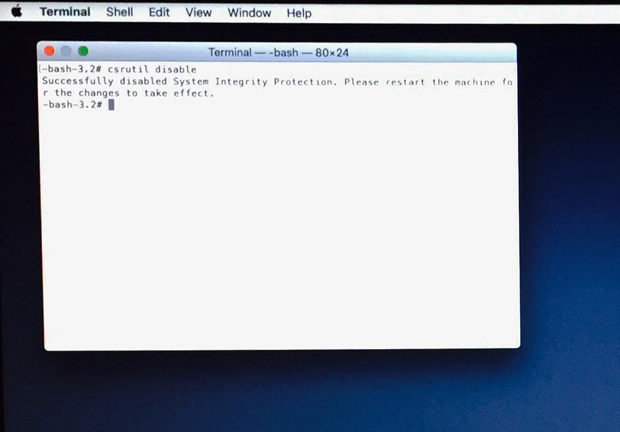
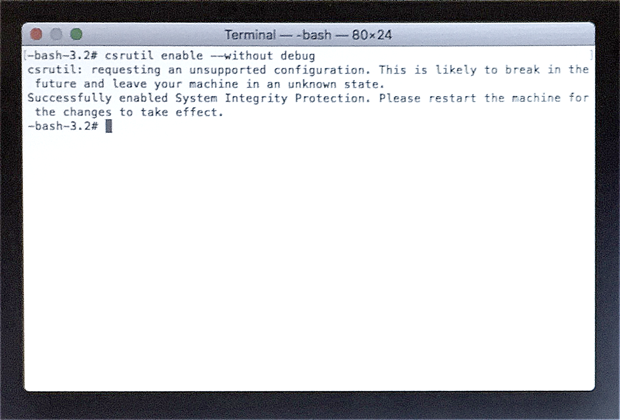
Update el capitan instructions, and point to v2.3.6

diff --git a/changelog2.html b/changelog2.html
@@ -50,6 +50,43 @@
         <div class="release">
     				<div class="titlebox">
     					<h4>
+    						<a href="http://downloads.binaryage.com/TotalSpaces2-2.3.6.dmg">2.3.6</a>
+    					</h4>
+    					<h5>
+    						22 September 2015
+    					</h5>
+    			  </div>
+    				<div class="infobox">
+              <ul class="changes">
+                <li>
+     							<span class="sticker new"><b>NEW</b></span> <span class="info">El Capitan compatibility (only with SIP setting modified; <a href="http://totalspaces.binaryage.com/elcapitan">see here for more details</a>)</span>
+                </li>
+                <li>
+     							<span class="sticker new"><b>NEW</b></span> <span class="info">Allow numeric keypad keys to be set as hotkeys without modifier keys.</span>
+                </li>
+                <li>
+     							<span class="sticker new"><b>NEW</b></span> <span class="info">Permit ESC and DELETE keys with modifiers as hotkeys.</span>
+                </li>
+                <li>
+     							<span class="sticker fixed"><b>FIXED</b></span> <span class="info">Do not alert about hotkey being in use if system hotkey is defined but disabled.</span>
+                </li>
+                <li>
+     							<span class="sticker new"><b>NEW</b></span> <span class="info">Command line preference to turn on old style notification graphic. defaults write com.binaryage.TotalSpaces2 oldStyleNotification -bool YES</span>
+                </li>
+                <li>
+     							<span class="sticker fixed"><b>FIXED</b></span> <span class="info">Improve trackpad handling, should fix rare method cache corrupt crashes.</span>
+                </li>
+                <li>
+     							<span class="sticker fixed"><b>FIXED</b></span> <span class="info">Rare bug causing space switch commands from the keyboard to be ignored.</span>
+                </li>
+        			</ul>
+    		    </div>
+    	  </div>
+        
+        
+        <div class="release">
+    				<div class="titlebox">
+    					<h4>
     						<a href="http://downloads.binaryage.com/TotalSpaces2-2.2.20.dmg">2.2.20</a>
     					</h4>
     					<h5>

diff --git a/elcapitan.md b/elcapitan.md
@@ -6,13 +6,13 @@ subtitle: How to run TotalSpaces2 on El Capitan
 
 TotalSpaces2 [versions 2.3.5 and above](/changes-beta) have support for OSX 10.11 El Capitan, but cannot run on a normally configured machine due to system integrity protection, a new security feature in El Capitan.
 
-This article will tell you how to configure your machine without the new setting, so that you can run TotalSpaces2.
+This article will tell you how to configure your machine by modifying the new setting, so that you can run TotalSpaces2.
 
-Before you do this, it is important to get informed about [what System Integrity Protection is, and what it means to turn it off](https://en.wikipedia.org/wiki/System_Integrity_Protection). __We are not encouraging you to turn it off; indeed your machine may be less secure with it off. It is entirely your decision__.
+Before you do this, it is important to get informed about [what System Integrity Protection is, and what it means to turn it off](https://en.wikipedia.org/wiki/System_Integrity_Protection). [Apple also provide some information here](https://developer.apple.com/library/prerelease/mac/documentation/Security/Conceptual/System_Integrity_Protection_Guide/Introduction/Introduction.html). __We are not encouraging you to turn it off; indeed your machine may be less secure with it off. It is entirely your decision__.
 
-If you decide to turn if off, you will be able to install and run TotalSpaces2 normally.
+If you decide to modify the setting, you will be able to install and run TotalSpaces2 normally.
 
-## How to turn off System Integrity Protection
+## How to modify System Integrity Protection
 
 You must boot into the Recovery OS. You do this by restarting your machine, and holding&nbsp;&nbsp; <img src="/images/cmd-r.png" title="cmd-r"> &nbsp;&nbsp;until the Apple logo appears.
 
@@ -21,8 +21,8 @@ Then select Terminal from the Utilities menu. It looks like this:
 <img src="/images/recovery-1.png">
 
 In the window that opens, type
-<code>csrutil disable</code>
-and press return.
+<code>csrutil enable --without debug</code>
+and press return. This turns off the part of System Integrity Protection that TotalSpaces2 needs to run, and OSX complains that it is an unsupported configuration.
 
 <img src="/images/recovery-2.png">
 
@@ -34,9 +34,9 @@ TotalSpaces2 works by changing the way the Dock program handles spaces. OSX does
 
 In order to change some features inside Dock, we use a technique called _code injection_. This means we add some additional code to the Dock program whilst it is running to do what we need. This is safe - in fact we do not change any part of OSX on the disk. You only have to quit TotalSpaces2, and the Dock program will restart and everything will be as if TotalSpaces2 was never running.
 
-However, in El Capitan the OSX developers added a feature that disallows this kind of modification _even if you have administrator access_. It also disallows other kinds of modifications (such as replacing parts of the system on disk).
+However, in El Capitan the OSX developers added a feature that disallows this kind of modification _even if you have administrator access_. It can also disallow other kinds of modifications (such as replacing parts of the system on disk).
 
-In order for TotalSpaces2 to work, this new feature must be disabled. And __we don't recommend you do this unless you know what you are doing.__
+In order for TotalSpaces2 to work, part of this new feature must be disabled. And __we don't recommend you do this unless you know what you are doing.__
 
 You can find some further information [in our blog](http://blog.binaryage.com/el-capitan-update/).
 

diff --git a/index.md b/index.md
@@ -6,8 +6,8 @@ product_title: TotalSpaces2
 product_subtitle: the ultimate grid spaces manager for your Mac
 product_icon: /shared/img/icons/totalspaces2-256.png
 subtitle: TotalSpaces2 brings grid spaces to your Mac and more!
-download: http://downloads.binaryage.com/TotalSpaces2-2.2.20.dmg
-downloadtitle: Download v2.2.20
+download: http://downloads.binaryage.com/TotalSpaces2-2.3.6.dmg
+downloadtitle: Download v2.3.6
 meta_title: TotalSpaces2 brings grid spaces to you Mac and more!
 meta_keywords: totalspaces,mac,dock,spaces,osx,software,plugin,apple,extension,utility,macosx,apps,tools,tabs,productivity,app,hacks,application,utilities,yosemite,binaryage
 meta_description: TotalSpaces2 is a desktop manager aims to re-create the classic 2D 'spaces' grid functionality on OS X Mavericks and Yosemite.

diff --git a/upgrade.md b/upgrade.md
@@ -4,7 +4,7 @@ title: Upgrading TotalSpaces to TotalSpaces2
 subtitle: Upgrade to TotalSpaces2
 ---
 
-## Download [TotalSpaces2 for Yosemite/Mavericks here.](http://downloads.binaryage.com/TotalSpaces2-2.2.20.dmg)
+## Download [TotalSpaces2 for Yosemite/Mavericks here.](http://downloads.binaryage.com/TotalSpaces2-2.3.6.dmg)
 
 TotalSpaces2 for Yosemite/Mavericks is a paid upgrade from TotalSpaces. **Please download it and test it before upgrading your license.**
 
